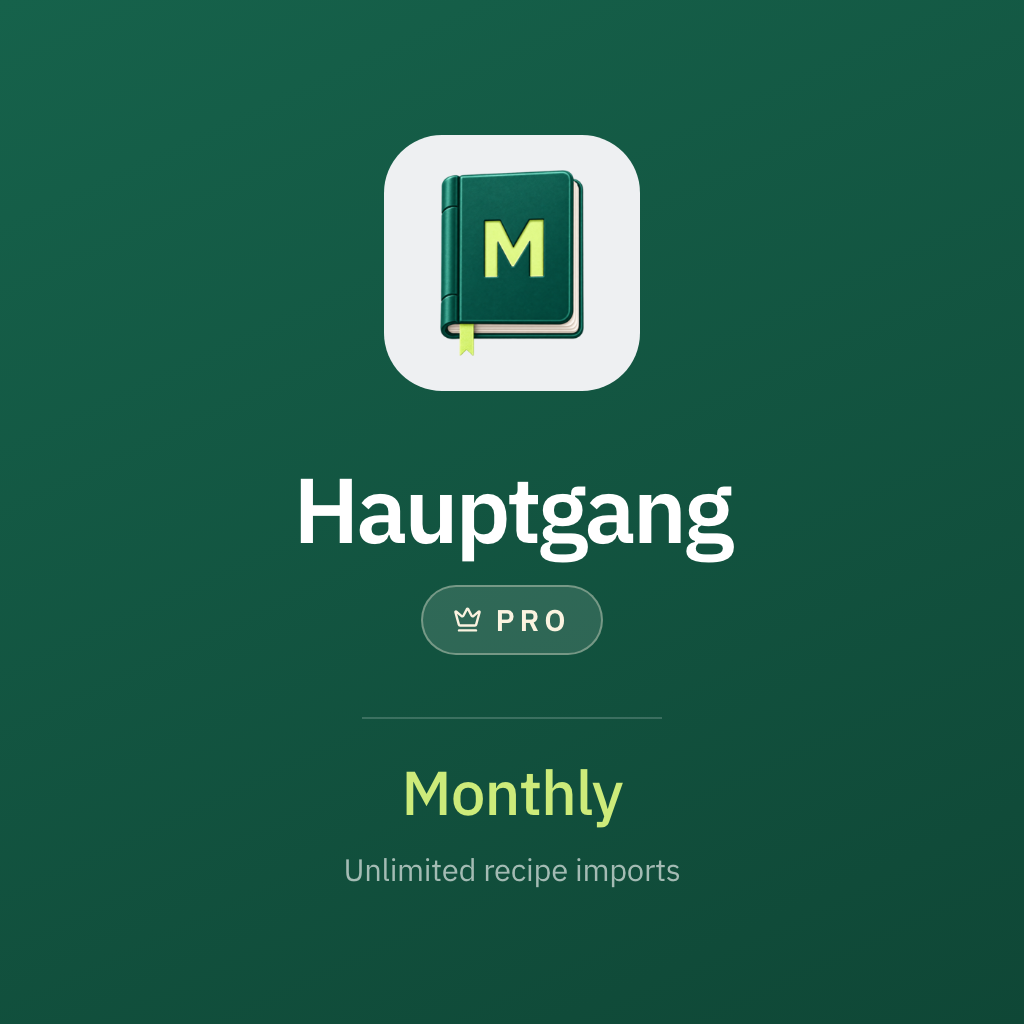
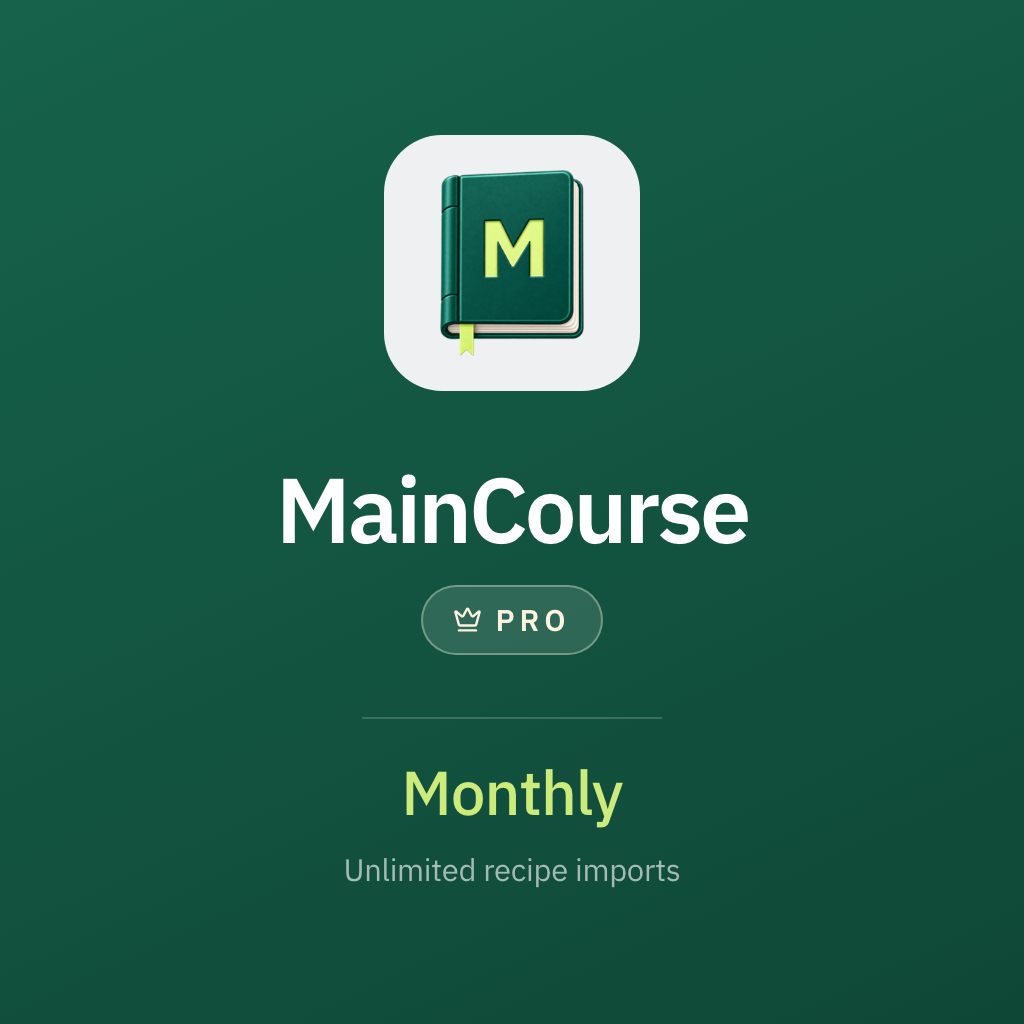
Rebrand subscriptions to MainCourse Pro and sync the live paywall
Version 2 of both App Store subscriptions and of the group carries the
MainCourse names in English, German and Polish plus regenerated promo
images. The repo paywall files now mirror what is published in
RevenueCat, which stores Polish under pl.

Refs #85, #133

Changed region(s): [[0.25, 0.4688, 0.75, 0.5625]]

diff --git a/docs/store-localization.md b/docs/store-localization.md
@@ -16,7 +16,8 @@ the apps.
 | Play Store listing | `maincourse-android/fastlane/metadata/android/<locale>/` | Play Console main store listing |
 
 App Store locales are `en-US`, `en-GB`, `de-DE` and `pl`; Play uses `en-US`,
-`de-DE` and `pl-PL`; RevenueCat uses `en_US`, `de_DE` and `pl_PL`.
+`de-DE` and `pl-PL`; RevenueCat uses `en_US`, `de_DE` and `pl` (the paywall editor stores Polish
+under `pl`, not `pl_PL`).
 
 ## App Store listing
 
@@ -45,9 +46,13 @@ asc subscriptions versions localizations create --version-id VERSION_ID \
   --locale de-DE --name "..." --description "..."
 ```
 
-The group name uses `asc subscriptions groups versions localizations`. If the
-current version is already approved, App Store Connect asks for a new
-subscription version, which is reviewed together with the next app version.
+The group name uses `asc subscriptions groups versions localizations`. An
+approved version cannot be edited: `asc subscriptions versions create` (and
+`asc subscriptions groups versions create`) starts a new one that copies the
+existing localizations, and App Review checks it together with the next app
+version. Version 2 of both subscriptions and of the group carries the
+MainCourse names in all three languages and the promo images
+(`app-store/subscription-promo/README.md`).
 After publishing, re-sync `hauptgang-ios/Hauptgang-StoreKit.storekit` from Xcode;
 it is a synced configuration, so do not edit it by hand.
 
@@ -68,8 +73,9 @@ curl -s -H "Authorization: Bearer $PUBLIC_SDK_KEY" -H "X-Platform: iOS" \
   "https://api.revenuecat.com/v1/subscribers/%24RCAnonymousID%3Acompare/offerings"
 ```
 
-When the paywall layout changes in RevenueCat, its component IDs change too.
-Refresh the files from that response before translating.
+The files mirror the published paywall. After editing text in the dashboard, or
+when the layout changes (which also changes component IDs), refresh them from
+that response.
 
 ## Play Store listing
 

diff --git a/docs/app-store/subscription-promo/README.md b/docs/app-store/subscription-promo/README.md
@@ -48,17 +48,22 @@ asc subscriptions versions images upload \
   --file docs/app-store/subscription-promo/hauptgang-pro-monthly.png
 ```
 
-**A subscription version only accepts an image while it is modifiable.** Both
-subscriptions are currently on `APPROVED` version 1, and uploading to those
-fails with:
+**A subscription version only accepts an image while it is modifiable.**
+Uploading to an `APPROVED` version fails with:
 
 ```
 failed to reserve: Version is not in modifiable state.
 ```
 
-Attaching these therefore means `asc subscriptions versions create` for a new
-version per subscription and putting that version through review — not a
-metadata edit in place. Do not start that while an app submission is in flight.
+Changing the image then means `asc subscriptions versions create` for a new
+version per subscription, which App Review checks together with the next app
+version. The current images are on version 2 of each subscription, created in
+September 2026 for the MainCourse rename:
+
+| Subscription | Version 2 ID |
+|---|---|
+| Monthly | `0653c7db-3c34-4cea-aa48-8275ce680991` |
+| Yearly | `b05e3fe9-c2e8-44ef-87f2-fc5c664f4b66` |
 
 Verify with:
 
@@ -66,4 +71,4 @@ Verify with:
 asc validate subscriptions --app 6758990872
 ```
 
-The two `subscriptions.images.recommended` warnings should be gone.
+It should report no `subscriptions.images.recommended` warnings.
